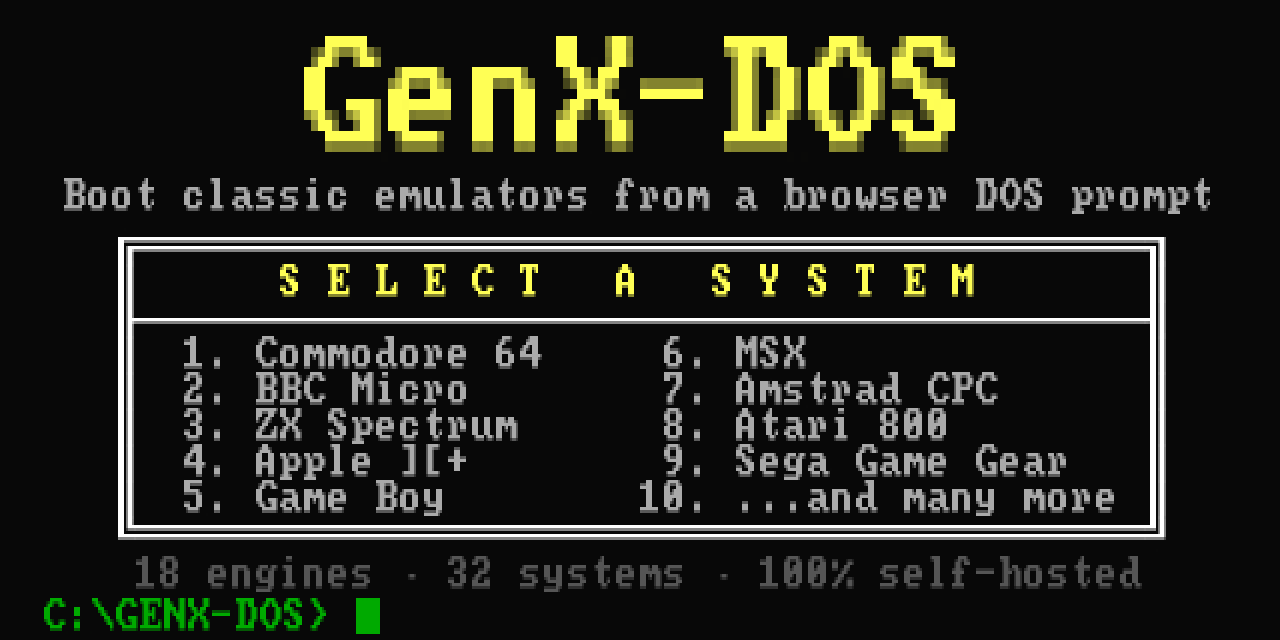
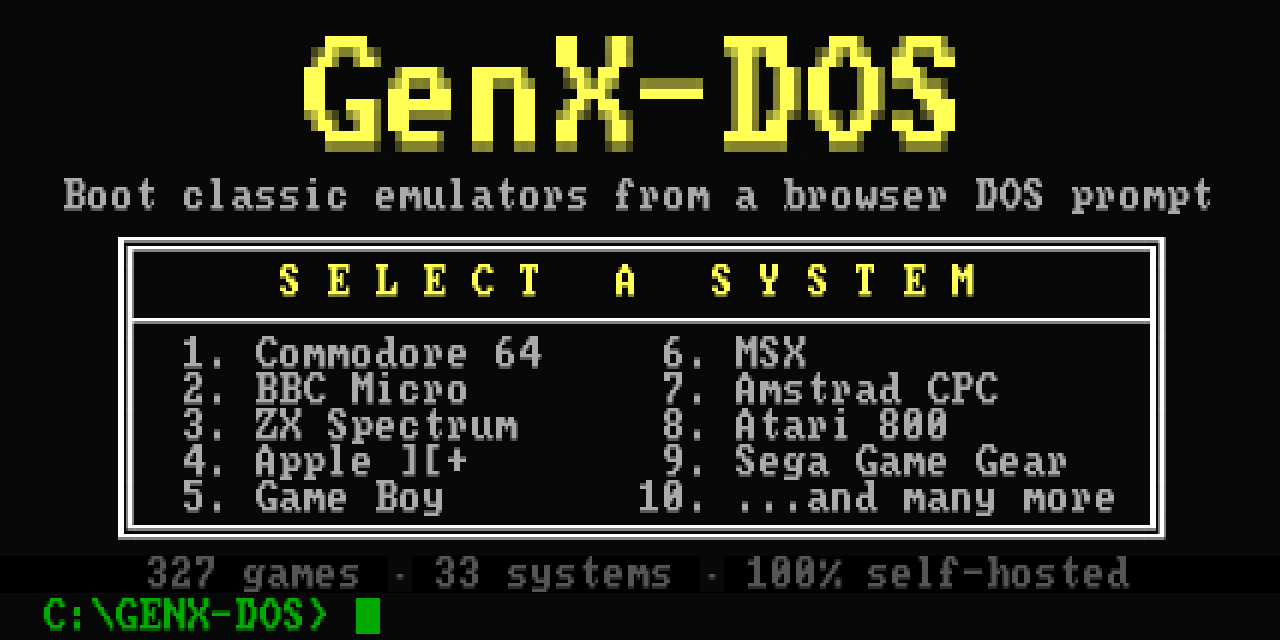
Doc-sync: Model 100 in the feature article; social card shows a games count
- tech_article.md → 33-system / nineteen engines / thirty-three sub-systems,
  138 MB / 450 MB repo size, and the Model 100 added as the fifth (and most
  drastic) from-source WASM build (VirtualT core extracted from its FLTK app).
- docs/social-preview.png → stats line now '327 games · 33 systems' (games
  count replaces the engine count), rebuilt from the site's own f12.8 sprite
  sheet. Manual Settings → Social preview upload still pending.

README/ATTRIBUTION/CHANGELOG were already current from the v1.3.0 commits;
orphan pass clean (all 10 M100 games + adrs/note referenced).

Changed region(s): [[0.0938, 0.8438, 0.5312, 0.9375], [0.5625, 0.8438, 0.9062, 0.9375]]

diff --git a/docs/tech_article.md b/docs/tech_article.md
@@ -1,6 +1,6 @@
 # Booting a Museum in a Browser Tab
 
-### How GenX-DOS turns a fake DOS prompt into a 32-system emulation arcade — with no installer, no plugins, and not a single byte fetched at runtime
+### How GenX-DOS turns a fake DOS prompt into a 33-system emulation arcade — with no installer, no plugins, and not a single byte fetched at runtime
 
 ---
 
@@ -22,13 +22,13 @@ The defining constraint is almost monastic: **static, no build step, no runtime 
 
 This sounds limiting. It's actually the smartest decision in the project. A preservation site whose whole point is "this old software still runs" can't afford to depend on a CDN that might 404 in 2031, or a build toolchain that bit-rots, or a third-party emulator host that goes dark. By refusing all of it, GenX-DOS becomes the thing it's preserving: a self-contained artifact you could burn to a disc and run in a decade.
 
-It also means the repository is a beast — around 135 MB checked out, closer to 445 MB cloned with its full history — with no single bundle dominating: the two BBC builds (`bbcmicro` and `bbcmaster`, ~25 MB each since the jsbeeb split) sit at the top. And fourteen of the bundles had to be talked into *sharing* one copy of the EmulatorJS framework instead of each dragging its own, a move that saved roughly 25 MB. Frugality and excess, side by side.
+It also means the repository is a beast — around 138 MB checked out, closer to 450 MB cloned with its full history — with no single bundle dominating: the two BBC builds (`bbcmicro` and `bbcmaster`, ~25 MB each since the jsbeeb split) sit at the top. And fourteen of the bundles had to be talked into *sharing* one copy of the EmulatorJS framework instead of each dragging its own, a move that saved roughly 25 MB. Frugality and excess, side by side.
 
 ## Where the week-long fights happened
 
-Plugging in eighteen emulator engines to cover thirty-two sub-systems — from the Apple I to the Sega Game Gear — sounds like a lot of glue code. Some of it was. The interesting parts were the engines that fought back.
+Plugging in nineteen emulator engines to cover thirty-three sub-systems — from the Apple I to the Sega Game Gear — sounds like a lot of glue code. Some of it was. The interesting parts were the engines that fought back.
 
-Four emulators had to be **recompiled from source to WebAssembly** because no suitable browser build existed: the Atari 800, the Magnavox Odyssey², the TRS-80 Model I, and the Amstrad CPC. That's not configuration work; that's wrangling Emscripten toolchains. And then there was the save-state problem, which is the kind of bug that earns a war story.
+Five emulators had to be **recompiled from source to WebAssembly** because no suitable browser build existed: the Atari 800, the Magnavox Odyssey², the TRS-80 Model I, the Amstrad CPC — and, most drastically, the TRS-80 Model 100, where a whole FLTK desktop emulator (VirtualT) was cut down to just its 8085 core and run headless behind a hand-written browser front end. That's not configuration work; that's wrangling Emscripten toolchains. And then there was the save-state problem, which is the kind of bug that earns a war story.
 
 The Atari build wanted in-browser save states, but the function that serialises the machine's state internally calls `emscripten_sleep` — which makes it an *asyncify* operation. The trouble is that the emulator's main loop is *already* a suspended asyncify operation. Call the save routine from a button click and you get two concurrent stack unwinds sharing one asyncify stack, stomping each other into a flood of "memory access out of bounds." The fix was to defer the save through the frame loop so it never runs concurrently with the loop it's part of. That is a genuinely subtle piece of systems engineering hiding behind a button that just says *Save*.
 
